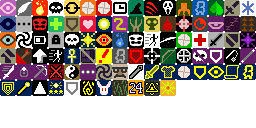
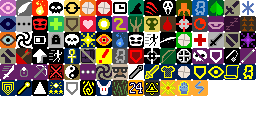
电电触击

Changed region(s): [[0.6875, 0.625, 0.8125, 0.75]]

diff --git a/core/src/main/java/com/shatteredpixel/shatteredpixeldungeon/runes/spells/ElectricTouch.java b/core/src/main/java/com/shatteredpixel/shatteredpixeldungeon/runes/spells/ElectricTouch.java
@@ -1,0 +1,91 @@
+package com.shatteredpixel.shatteredpixeldungeon.runes.spells;
+
+import com.shatteredpixel.shatteredpixeldungeon.Dungeon;
+import com.shatteredpixel.shatteredpixeldungeon.actors.Char;
+import com.shatteredpixel.shatteredpixeldungeon.actors.buffs.Buff;
+import com.shatteredpixel.shatteredpixeldungeon.actors.hero.Hero;
+import com.shatteredpixel.shatteredpixeldungeon.items.implement.Implement;
+import com.shatteredpixel.shatteredpixeldungeon.items.weapon.enchantments.Shocking;
+import com.shatteredpixel.shatteredpixeldungeon.ui.BuffIndicator;
+import com.watabou.utils.Bundle;
+
+public class ElectricTouch extends Spell{
+    public static ElectricTouch INSTANCE = new ElectricTouch();
+
+    {
+        type = TYPE.ENERGETIC;
+        icon = ELECTRIC_TOUCH;
+        tier = 1;
+    }
+
+    @Override
+    public void onCast(Implement implement, Hero hero){
+        hero.busy();
+        hero.sprite.operate(hero.pos);
+
+        Buff.affect(hero, Electric_Touch.class).setDamage(Math.round(hero.lvl * implement.powerMultiplier(hero, this)));
+
+        hero.spendAndNext(0);
+        onSpellCast(implement, hero);
+    }
+
+    public static class Electric_Touch extends Buff {
+        {
+            type = buffType.POSITIVE;
+            announced = true;
+        }
+
+        protected int damage = 0;
+        public static final String DAMAGE = "damage";
+
+        public void setDamage(int damage) {
+            if (damage > this.damage) this.damage = damage;
+        }
+
+        @Override
+        public void storeInBundle( Bundle bundle ) {
+            super.storeInBundle(bundle);
+            bundle.put(DAMAGE, damage);
+        }
+
+        @Override
+        public void restoreFromBundle( Bundle bundle ) {
+            super.restoreFromBundle(bundle);
+            damage = bundle.getInt(DAMAGE);
+        }
+
+        @Override
+        public int icon() {
+            return BuffIndicator.ELECTRICTOUCH;
+        }
+
+        public void affectChar(Char enemy) {
+            enemy.damage(damage, Shocking.class);
+            Buff.affect(enemy, Electric_Feel.class);
+            detach();
+        }
+    }
+
+    public static class Electric_Feel extends Buff {
+        {
+            type = buffType.NEGATIVE;
+            announced = true;
+        }
+
+        public static float electricMultiplier = 1.5f;
+
+        public static float electricMultiplier(Char ch, Class effect) {
+            float r = 1f;
+
+            if (ch.buff(Electric_Feel.class)!=null && Char.Property.ELECTRIC.resistances().contains(effect))
+                r *= electricMultiplier;
+
+            return r;
+        }
+
+        @Override
+        public int icon() {
+            return BuffIndicator.ELECTRICFEEL;
+        }
+    }
+}

diff --git a/core/src/main/java/com/shatteredpixel/shatteredpixeldungeon/actors/Char.java b/core/src/main/java/com/shatteredpixel/shatteredpixeldungeon/actors/Char.java
@@ -153,6 +153,7 @@ import com.shatteredpixel.shatteredpixeldungeon.messages.Languages;
 import com.shatteredpixel.shatteredpixeldungeon.messages.Messages;
 import com.shatteredpixel.shatteredpixeldungeon.plants.Earthroot;
 import com.shatteredpixel.shatteredpixeldungeon.plants.Swiftthistle;
+import com.shatteredpixel.shatteredpixeldungeon.runes.spells.ElectricTouch;
 import com.shatteredpixel.shatteredpixeldungeon.scenes.GameScene;
 import com.shatteredpixel.shatteredpixeldungeon.sprites.CharSprite;
 import com.shatteredpixel.shatteredpixeldungeon.sprites.MobSprite;
@@ -1401,6 +1402,10 @@ public abstract class Char extends Actor {
 				result *= 0.5f;
 			}
 		}
+
+		// this will increase effectiveness, it's not suitable for here but now the whole project have not a common func for increasing effectiveness
+		result *= ElectricTouch.Electric_Feel.electricMultiplier(this, effect);
+
 		return result * RingOfElements.resist(this, effect);
 	}
 	

diff --git a/core/src/main/java/com/shatteredpixel/shatteredpixeldungeon/actors/hero/Hero.java b/core/src/main/java/com/shatteredpixel/shatteredpixeldungeon/actors/hero/Hero.java
@@ -165,6 +165,7 @@ import com.shatteredpixel.shatteredpixeldungeon.levels.traps.Trap;
 import com.shatteredpixel.shatteredpixeldungeon.mechanics.Ballistica;
 import com.shatteredpixel.shatteredpixeldungeon.mechanics.ShadowCaster;
 import com.shatteredpixel.shatteredpixeldungeon.messages.Messages;
+import com.shatteredpixel.shatteredpixeldungeon.runes.spells.ElectricTouch;
 import com.shatteredpixel.shatteredpixeldungeon.scenes.AlchemyScene;
 import com.shatteredpixel.shatteredpixeldungeon.scenes.GameScene;
 import com.shatteredpixel.shatteredpixeldungeon.scenes.PixelScene;
@@ -1538,6 +1539,8 @@ public class Hero extends Char {
 				sprite.showStatusWithIcon(CharSprite.POSITIVE, Integer.toString(reg), FloatingText.HEALING);
 			}
 		}
+
+		if (buff(ElectricTouch.Electric_Touch.class)!=null) buff(ElectricTouch.Electric_Touch.class).affectChar(enemy);
 		
 		return damage;
 	}

diff --git a/core/src/main/java/com/shatteredpixel/shatteredpixeldungeon/ui/BuffIndicator.java b/core/src/main/java/com/shatteredpixel/shatteredpixeldungeon/ui/BuffIndicator.java
@@ -142,6 +142,8 @@ public class BuffIndicator extends Component {
 	public static final int MANBA		= 88;
 	public static final int OVERRUNES	= 89;
 	public static final int BLIGHTING	= 90;
+	public static final int ELECTRICTOUCH	= 91;
+	public static final int ELECTRICFEEL = 92;
 
 	public static final int SIZE_SMALL  = 7;
 	public static final int SIZE_LARGE  = 16;
